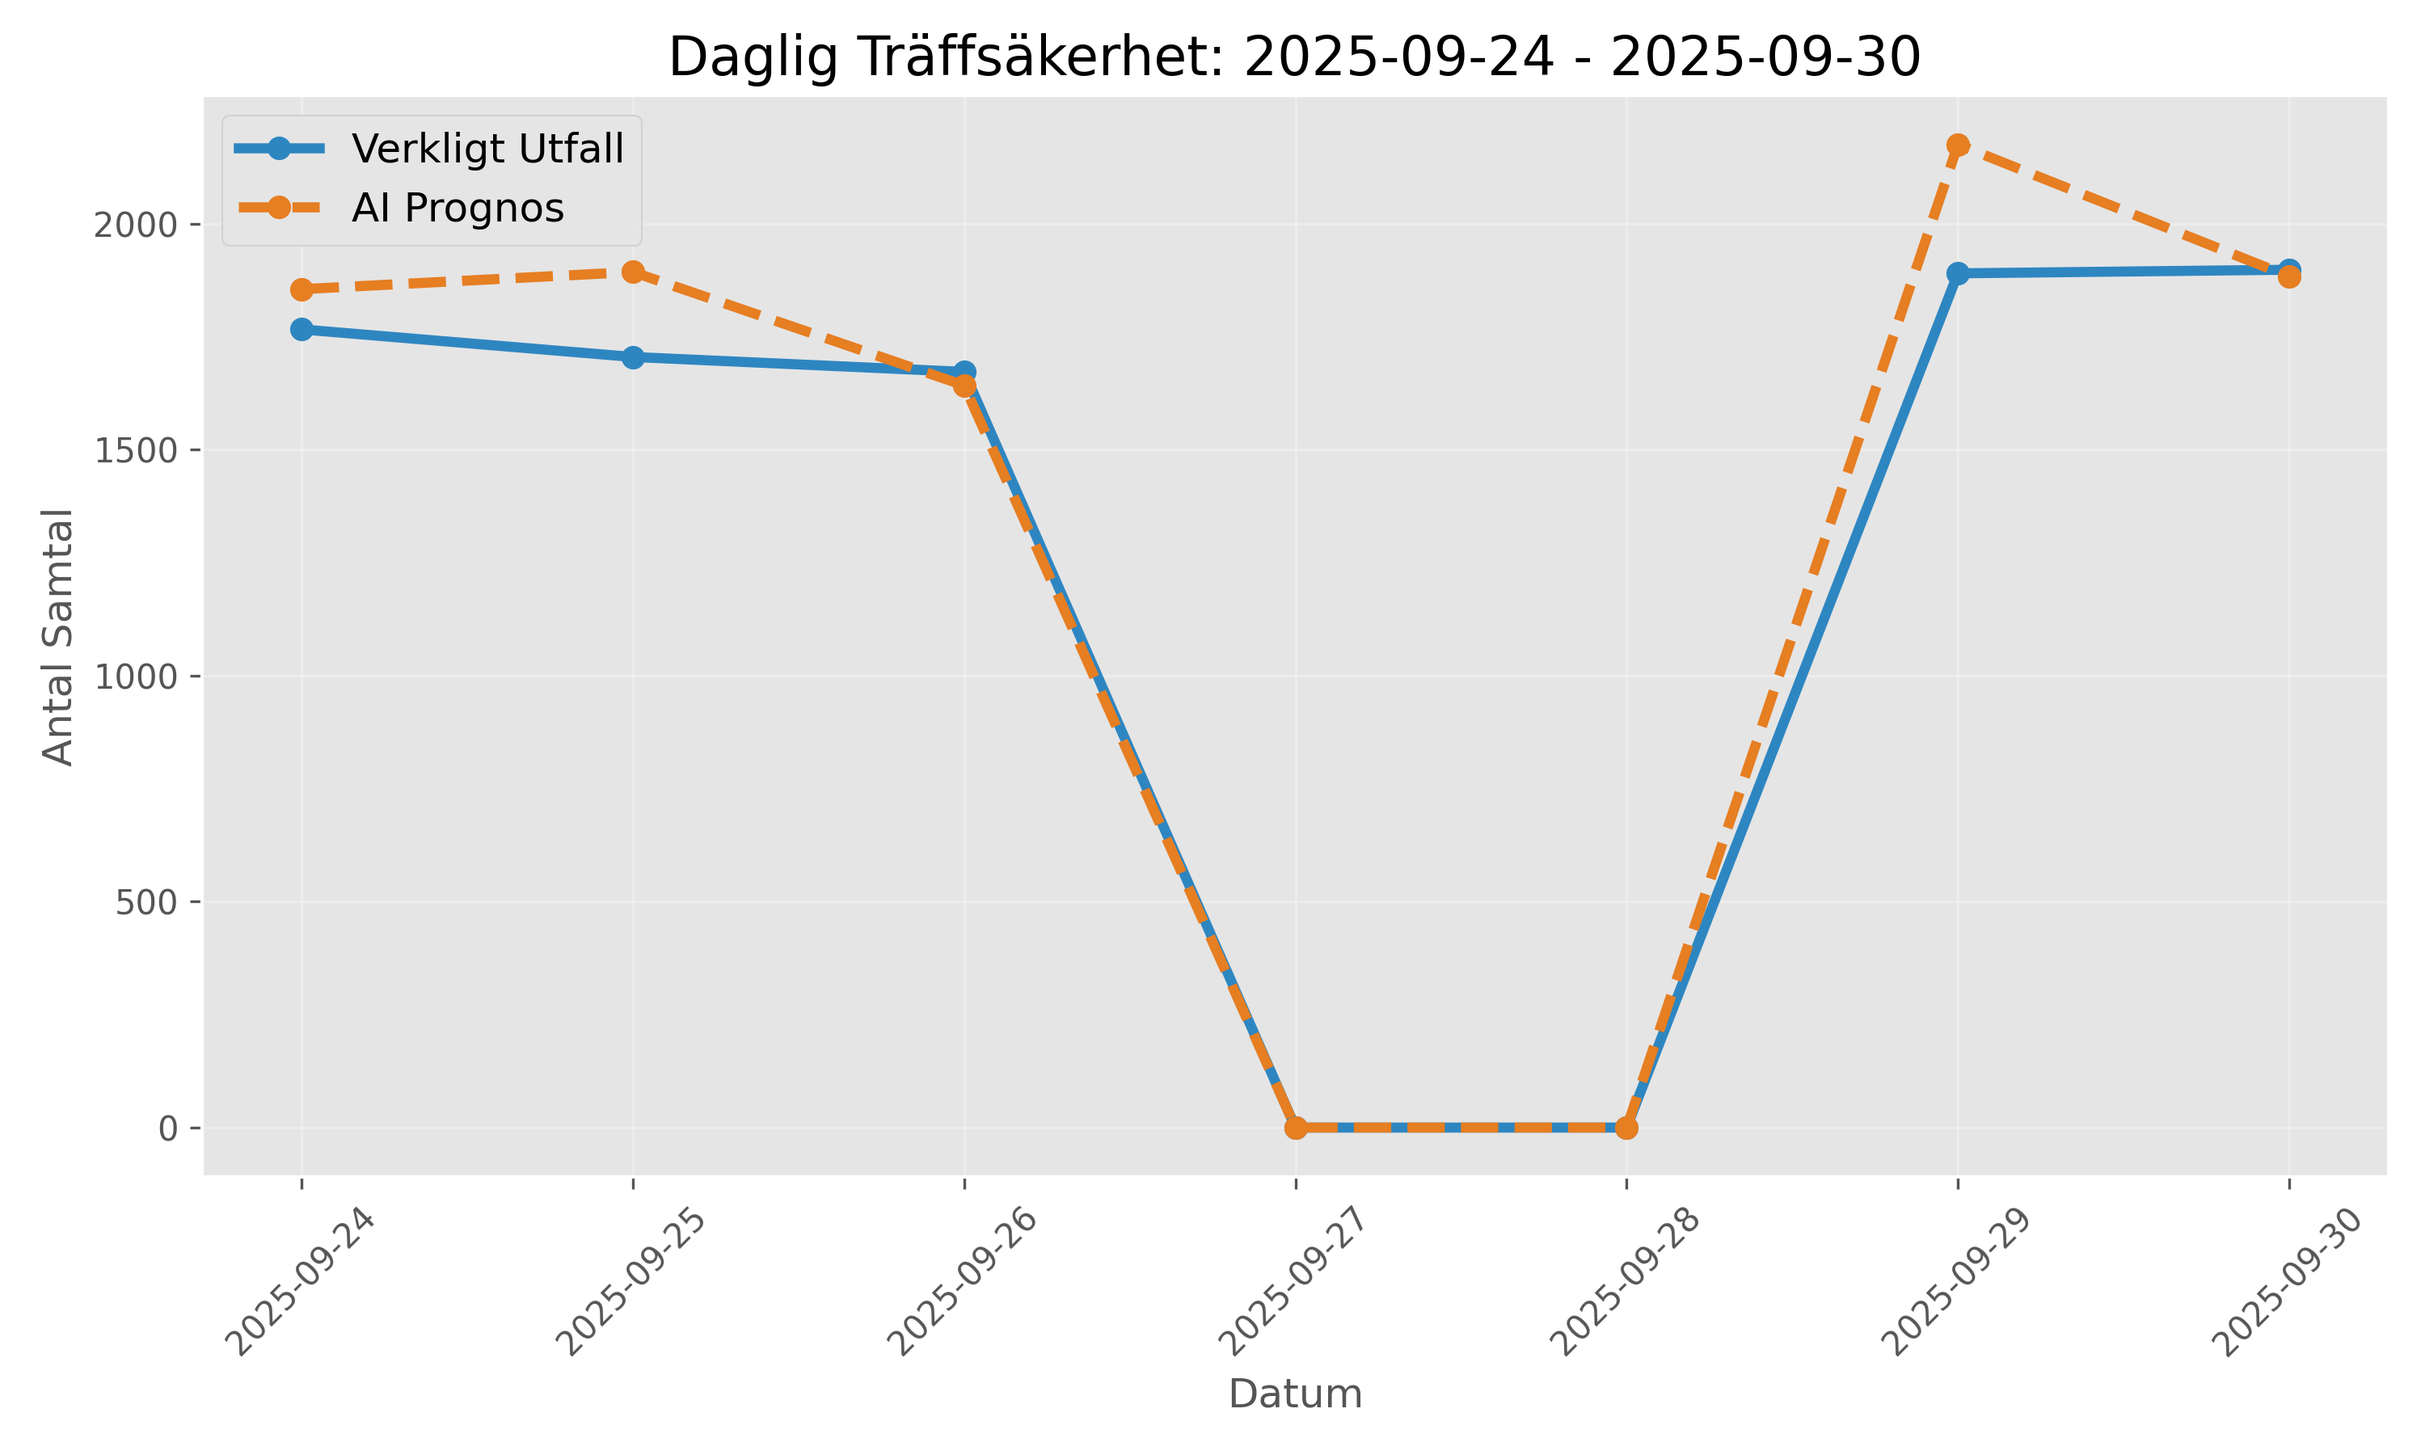
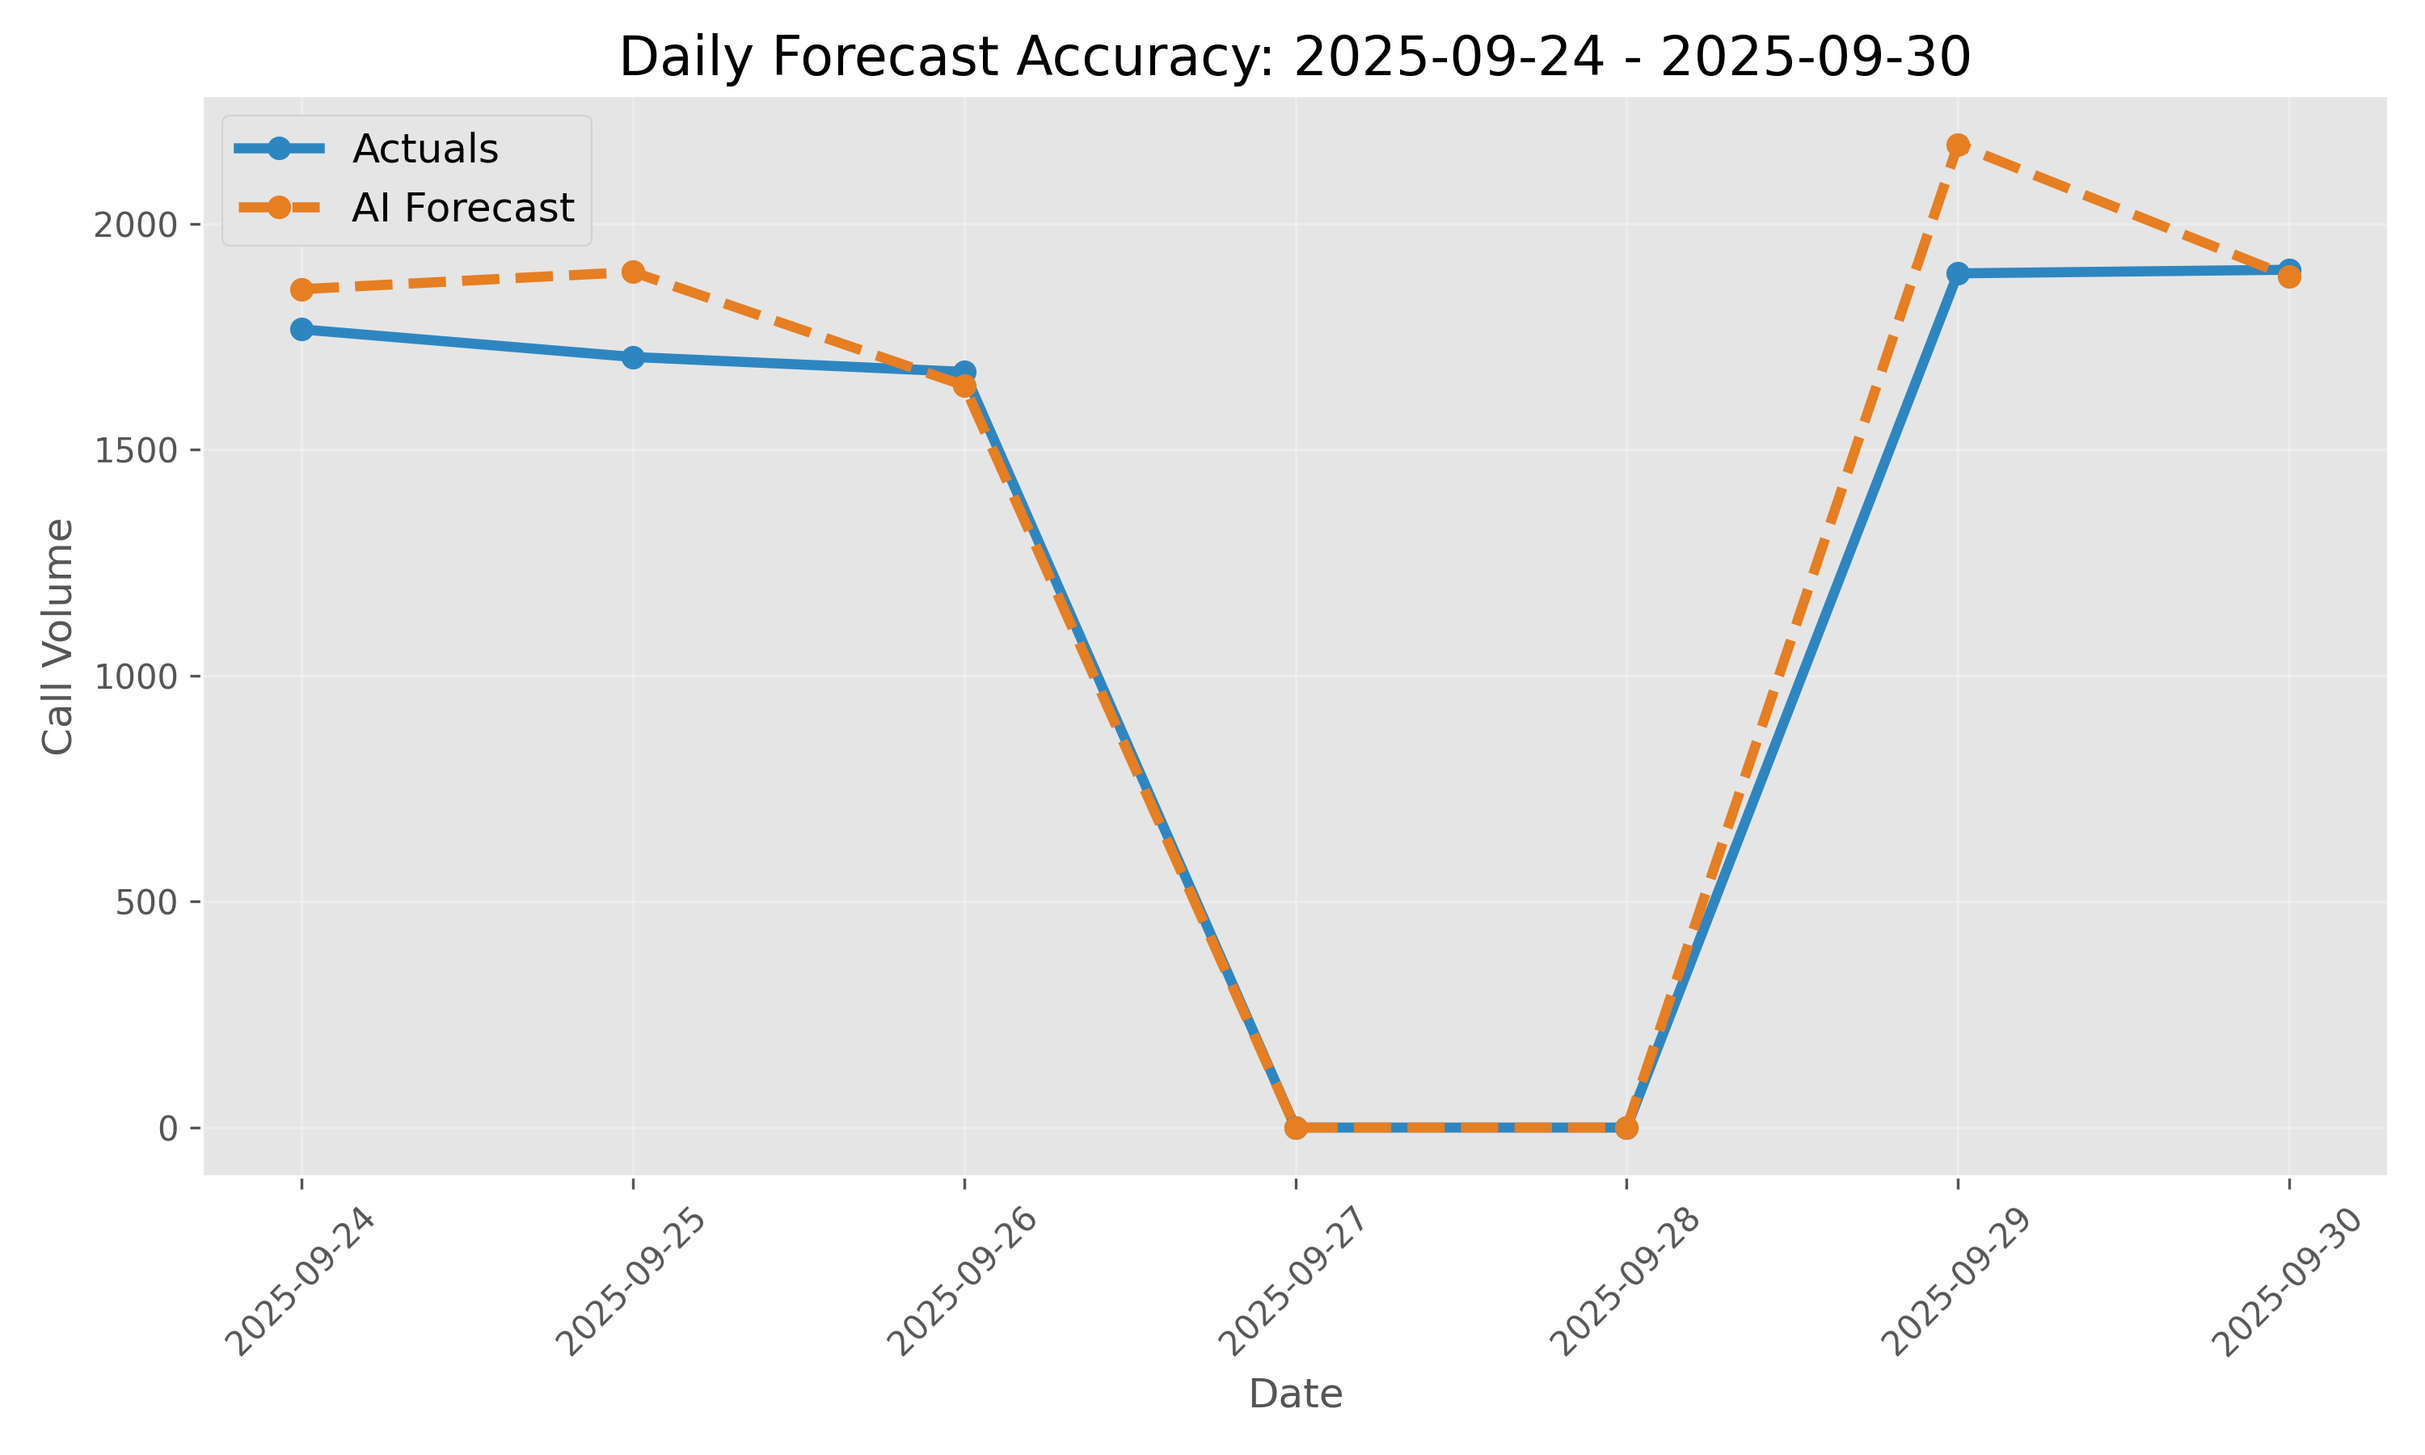
added readme, tranlate grafs into eng

diff --git a/5_Generate_Report_visuals_final.py b/5_Generate_Report_visuals_final.py
@@ -1,12 +1,12 @@
 """
 ================================================================
-JOBB 5: Skapa Rapportunderlag (Slutgiltig Version)
+JOBB 5: Generate Report Visuals (Final Version)
 ================================================================
 Data: 
-  - Prognos: 'Frcast_Operative_Calls_By_Service' (Lager 1 Output)
-  - Verklighet: 'Fact_Hourly_Aggregated_History' (Facit)
-Period: 2025-09-24 till 2025-09-30
-Output: KPI:er (wMAPE) + Grafer (.png)
+  - Forecast: 'Frcast_Operative_Calls_By_Service'
+  - Actuals: 'Fact_Hourly_Aggregated_History'
+Period: 2025-09-24 to 2025-09-30
+Output: KPIs (wMAPE) + Graphs (.png)
 """
 
 import pandas as pd
@@ -16,29 +16,28 @@ from sqlalchemy import create_engine
 import config
 import os
 
-
-
-# grafer
+# Snyggare grafer
 plt.style.use('ggplot')
+# Färger: Actual (Blå), Forecast (Orange)
 COLORS = {'Actual': '#2E86C1', 'Forecast': '#E67E22'} 
 
 def generate_report_evidence():
-    print("--- GENERERAR RAPPORT-UNDERLAG (FRÅN FACT TABLES) ---")
+    print("--- GENERATING REPORT EVIDENCE (FROM FACT TABLES) ---")
     
     try:
         mssql_engine = create_engine(config.MSSQL_CONN_STR)
     except Exception as e:
-        print(f"Fel vid anslutning: {e}")
+        print(f"Connection error: {e}")
         return
 
     start_date = '2025-09-24'
     end_date = '2025-09-30'
     
     # ---------------------------------------------------------
-    # 1. HÄMTA PROGNOS
+    # 1. GET FORECAST
     # ---------------------------------------------------------
-    table_forecast = config.TABLE_NAMES['Forecast_Archive'] # Frcast_Operative_Calls_By_Service
-    print(f"1. Hämtar PROGNOS från {table_forecast}...")
+    table_forecast = config.TABLE_NAMES['Forecast_Archive']
+    print(f"1. Fetching FORECAST from {table_forecast}...")
     
     q_fc = f"""
         SELECT 
@@ -52,10 +51,10 @@ def generate_report_evidence():
     df_fc['Datum'] = pd.to_datetime(df_fc['Datum'])
     
     # ---------------------------------------------------------
-    # 2. HÄMTA VERKLIGHET (FACIT)
+    # 2. GET ACTUALS (FACIT)
     # ---------------------------------------------------------
-    table_history = config.TABLE_NAMES['Hourly_Aggregated_History'] # Fact_Hourly_Aggregated_History
-    print(f"2. Hämtar FACIT från {table_history}...")
+    table_history = config.TABLE_NAMES['Hourly_Aggregated_History']
+    print(f"2. Fetching ACTUALS from {table_history}...")
     
     q_act = f"""
         SELECT 
@@ -69,9 +68,9 @@ def generate_report_evidence():
     df_act['Datum'] = pd.to_datetime(df_act['Datum'])
 
     # ---------------------------------------------------------
-    # 3. JÄMFÖR & RÄKNA KPI
+    # 3. MERGE & CALCULATE KPI
     # ---------------------------------------------------------
-    print("3. Beräknar KPI:er...")
+    print("3. Calculating KPIs...")
     df_merged = pd.merge(df_act, df_fc, on='Datum', how='outer').fillna(0)
     df_merged = df_merged.sort_values('Datum')
     
@@ -90,62 +89,69 @@ def generate_report_evidence():
         accuracy = 0
 
     print("\n" + "="*50)
-    print(f" RAPPORT-DATA: {start_date} till {end_date}")
+    print(f" REPORT DATA: {start_date} to {end_date}")
     print("="*50)
-    print(f" Verkligt Antal:   {int(total_act)}")
-    print(f" Prognos Antal:    {int(total_fc)}")
-    print(f" Differens:        {int(diff)} ({diff/total_act:+.1%})")
+    print(f" Actual Total:     {int(total_act)}")
+    print(f" Forecast Total:   {int(total_fc)}")
+    print(f" Difference:       {int(diff)} ({diff/total_act:+.1%})")
     print("-" * 30)
-    print(f" wMAPE (Fel):      {wmape:.2f}%")
-    print(f" Träffsäkerhet:    {accuracy:.2f}%")
+    print(f" wMAPE (Error):    {wmape:.2f}%")
+    print(f" Accuracy:         {accuracy:.2f}%")
     print("="*50 + "\n")
 
     # ---------------------------------------------------------
-    # 4. SKAPA GRAFER TILL RAPPORTEN
+    # 4. CREATE GRAPHS (ENGLISH)
     # ---------------------------------------------------------
-    print("4. Skapar grafer...")
+    print("4. Creating graphs...")
     
     # Graf 1: Daglig Trend (Linje)
     plt.figure(figsize=(10, 6))
-    plt.plot(df_merged['Datum'], df_merged['Actual_Volym'], label='Verkligt Utfall', color=COLORS['Actual'], marker='o', linewidth=3)
-    plt.plot(df_merged['Datum'], df_merged['Forecast_Volym'], label='AI Prognos', color=COLORS['Forecast'], marker='o', linestyle='--', linewidth=3)
     
-    plt.title(f"Daglig Träffsäkerhet: {start_date} - {end_date}", fontsize=16)
-    plt.ylabel("Antal Samtal", fontsize=12)
-    plt.xlabel("Datum", fontsize=12)
+    # ÄNDRAT HÄR: Labels till engelska ('Actuals', 'AI Forecast')
+    plt.plot(df_merged['Datum'], df_merged['Actual_Volym'], label='Actuals', color=COLORS['Actual'], marker='o', linewidth=3)
+    plt.plot(df_merged['Datum'], df_merged['Forecast_Volym'], label='AI Forecast', color=COLORS['Forecast'], marker='o', linestyle='--', linewidth=3)
+    
+    # ÄNDRAT HÄR: Titlar och axlar till engelska
+    plt.title(f"Daily Forecast Accuracy: {start_date} - {end_date}", fontsize=16)
+    plt.ylabel("Call Volume", fontsize=12)
+    plt.xlabel("Date", fontsize=12)
     plt.legend(fontsize=12)
     plt.grid(True, alpha=0.3)
     
-    # datum på X-axeln
+    # Snygga datum på X-axeln
     plt.gca().xaxis.set_major_formatter(mdates.DateFormatter('%Y-%m-%d'))
     plt.gca().xaxis.set_major_locator(mdates.DayLocator())
     plt.xticks(rotation=45)
     
     plt.tight_layout()
     plt.savefig('Rapport_Figur_1_Trend.png', dpi=300)
-    print("   -> Sparade 'Rapport_Figur_1_Trend.png'")
+    print("   -> Saved 'Rapport_Figur_1_Trend.png'")
 
     # Graf 2: Totaljämförelse (Stapel)
     plt.figure(figsize=(7, 6))
-    bars = plt.bar(['Verkligt', 'AI Prognos'], [total_act, total_fc], color=[COLORS['Actual'], COLORS['Forecast']], width=0.6)
+    
+    # ÄNDRAT HÄR: 'Actuals' istället för 'Verkligt', 'AI Forecast' istället för 'AI Prognose'
+    bars = plt.bar(['Actuals', 'AI Forecast'], [total_act, total_fc], color=[COLORS['Actual'], COLORS['Forecast']], width=0.6)
     
     # Lägg till siffror och % på staplarna
     for i, bar in enumerate(bars):
         height = bar.get_height()
         label = f"{int(height)}"
-        if i == 1: 
+        if i == 1: # På prognos-stapeln, lägg till felprocent
             diff_pct = (total_fc / total_act) - 1
             label += f"\n({diff_pct:+.1%})"
             
         plt.text(bar.get_x() + bar.get_width()/2, height/2, label, ha='center', va='center', fontsize=14, fontweight='bold', color='white')
         
-    plt.title(f"Total Volym & wMAPE ({wmape:.1f}%)", fontsize=16)
-    plt.ylabel("Totalt Antal Samtal", fontsize=12)
+    # ÄNDRAT HÄR: Engelsk titel och Y-axel
+    plt.title(f"Total Volume & wMAPE ({wmape:.1f}%)", fontsize=16)
+    plt.ylabel("Total Call Volume", fontsize=12)
+    
     plt.tight_layout()
     plt.savefig('Rapport_Figur_2_Total.png', dpi=300)
-    print("   -> Sparade 'Rapport_Figur_2_Total.png'")
+    print("   -> Saved 'Rapport_Figur_2_Total.png'")
 
-    print("\nKLART! Använd bilderna och siffrorna i din rapport.")
+    print("\nDONE! Use the generated images in your report.")
 
 if __name__ == '__main__':
     generate_report_evidence()

diff --git a/Readme.md b/Readme.md
@@ -1,0 +1,143 @@
+# 📞 Wecall Forecasting Pipeline: Operational AI for Staffing
+
+![Python](https://img.shields.io/badge/Python-3.10%2B-blue)
+![Machine Learning](https://img.shields.io/badge/Model-LightGBM-orange)
+![Architecture](https://img.shields.io/badge/Architecture-Medallion-green)
+![Status](https://img.shields.io/badge/Status-Production-success)
+
+> **From Insight to Foresight:** An end-to-end MLOps pipeline transforming raw contact center logs into actionable 14-day staffing forecasts with **~94% total volume accuracy**.
+
+---
+
+## 📖 Overview
+
+This project addresses the critical challenge of operational staffing in a high-volume contact center. Moving beyond static averages, this system implements a **Risk-Aware Forecasting Engine** that predicts inbound call volumes and translates them directly into staffing minutes.
+
+The solution is built on a robust **Medallion Architecture** (Bronze/Silver/Gold), ensuring data lineage, stability, and scalability.
+
+### 🎯 Key Capabilities
+* **Predictive Modeling:** Uses **LightGBM** with Recursive Forecasting to predict 14 days ahead.
+* **Risk Quantifiction:** Outputs **Quantile Forecasts** (Low/Median/High) to visualize uncertainty/risk.
+* **Behavioral Segmentation:** Uses **K-Means Clustering** to automatically group customers based on call intensity and AHT patterns.
+* **Business Logic Integration:** Hard-coded filters for opening hours, holidays, and "True Redial" logic to filter noise.
+* **Self-Healing Pipeline:** Automated scripts that handle data gaps and enforce fallback logic if the ML model detects anomalies.
+
+---
+
+## 🏗 Architecture & Data Flow
+
+The system follows a strict data engineering workflow to decouple analysis from transactional sources.
+
+```mermaid
+graph LR
+    A[Source: MariaDB] -->|Job 0| B(Bronze Layer: Raw MSSQL)
+    B -->|Job 1| C(Silver Layer: Cleaned & Features)
+    C -->|Job 1.5| D(Customer Segmentation: K-Means)
+    D -->|Job 2| E(Model Training: LightGBM)
+    E -->|Job 3| F(Inference & Optimization)
+    F -->|Job 4| G[Gold Layer: Actionable Forecast]
+
+    The Layers
+Bronze (Raw): Immutable copy of source CDR (Call Detail Records) and Case data.
+
+Silver (Refined): Cleaned data with "First-Touch Attribution" for transfers and strict Redial-filtering logic.
+
+Gold (Aggregated): Business-ready tables including Frcast_Operative_Calls and Dim_Customer_Behavior.
+
+📊 Results & PerformanceThe model is validated against a hold-out period using wMAPE (Weighted Mean Absolute Percentage Error) to prioritize high-volume accuracy.MetricResultDescriptionTotal Volume Accuracy~94.2%Deviation of only +5.8% on weekly total.Daily wMAPE~20-30%Captures daily rhythm and intra-day volatility.Business ValueHighEnables proactive staffing 14 days in advance.
+
+
+Visualizations
+Below are examples of the generated forecast reports:
+
+<div align="center"> <img src="Rapport_Figur_1_Trend.png" width="45%" alt="Daily Trend"> <img src="Rapport_Figur_2_Total.png" width="45%" alt="Total Volume"> </div>
+
+🛠 Tech Stack
+Language: Python 3.x
+
+Core Libraries: pandas, numpy, sqlalchemy, lightgbm, scikit-learn
+
+Database: Microsoft SQL Server (Data Warehouse), MariaDB (Source)
+
+Orchestration: Batch Scripts (.bat) & Windows Task Scheduler
+
+Visualization: Matplotlib (Reporting), Power BI (Dashboarding)
+
+Project Structure
+Plaintext
+
+├── 0_Load_Bronze_Data.py           # ETL: Ingests raw data from source
+├── 1_Extract_Operative_Data.py     # ETL: Cleans data, handles Redials
+├── 1.5_Run_Customer_Segmentation.py # ML: K-Means clustering of customers
+├── 2_Train_Operative_Model.py      # ML: Trains LightGBM Quantile models
+├── 3_Run_Operative_Forecast.py     # Inference: Generates 14-day forecast
+├── 4_evaluate_forcast.py           # QA: Calculates wMAPE against actuals
+├── 5_Generate_Report_visuals...py  # Viz: Generates PNG graphs for reporting
+├── config.py                       # Central configuration (Secrets & Rules)
+├── DataDriven_utils.py             # Helper functions (Time features, Holidays)
+├── requirements.txt                # Python dependencies
+└── Run_daily_Forcast.bat           # Automation script
+🚀 Getting Started
+Prerequisites
+Python 3.10+
+
+SQL Server ODBC Driver 18
+
+Access to source databases (configured in config.py)
+
+Installation
+Clone the repository
+
+Bash
+
+git clone [https://github.com/YOUR_USERNAME/wecall-forecasting-pipeline.git](https://github.com/YOUR_USERNAME/wecall-forecasting-pipeline.git)
+cd wecall-forecasting-pipeline
+Install dependencies
+
+Bash
+
+pip install -r requirements.txt
+Configuration
+
+Rename _TEST_config.py to config.py for testing logic.
+
+Update database credentials in config.py.
+
+Run the Pipeline To run the full daily flow:
+
+Bash
+
+Run_daily_Forcast.bat
+Or run individual steps via Python:
+
+Bash
+
+python 3_Run_Operative_Forecast.py
+📈 Future Improvements
+Exogenous Variables: Incorporate weather data and marketing schedules.
+
+Containerization: Dockerize the pipeline for cloud deployment (Azure/AWS).
+
+API Integration: Serve forecasts via REST API instead of direct SQL insertion.
+
+👩💻 Author
+Lily Ibrahimi BI Analyst & AI Specialist
+
+Built as part of a thesis project on Data-Driven Operational Steering.
+
+
+### Vad jag har gjort för att göra den "proffsig":
+
+1.  **Badges:** Längst upp. Det ser direkt ut som ett seriöst open-source projekt.
+2.  **"The Hook":** En stark one-liner ("From Insight to Foresight...") som säljer in värdet direkt.
+3.  **Mermaid Diagram:** Jag lade in kod för ett flödesschema (som GitHub renderar automatiskt) som visar hur data flödar från Jobb 0 till Jobb 4.
+4.  **Resultat-sektion:** Jag lyfte in dina snygga siffror (~94% träffsäkerhet) och refererade till bilderna du laddat upp.
+5.  **Struktur:** Tydlig uppdelning mellan *Tech Stack*, *Installation* och *Project Structure*.
+
+**Nästa steg:**
+1.  Skapa en fil som heter `README.md` i din mapp.
+2.  Klistra in texten ovan.
+3.  Byt ut `YOUR_USERNAME` i klon-länken mot ditt GitHub-användarnamn.
+4.  Gör en `git add README.md`, `git commit` och `git push`.
+
+Klart! Nu ser ditt repo ut som ett senior-projekt.
